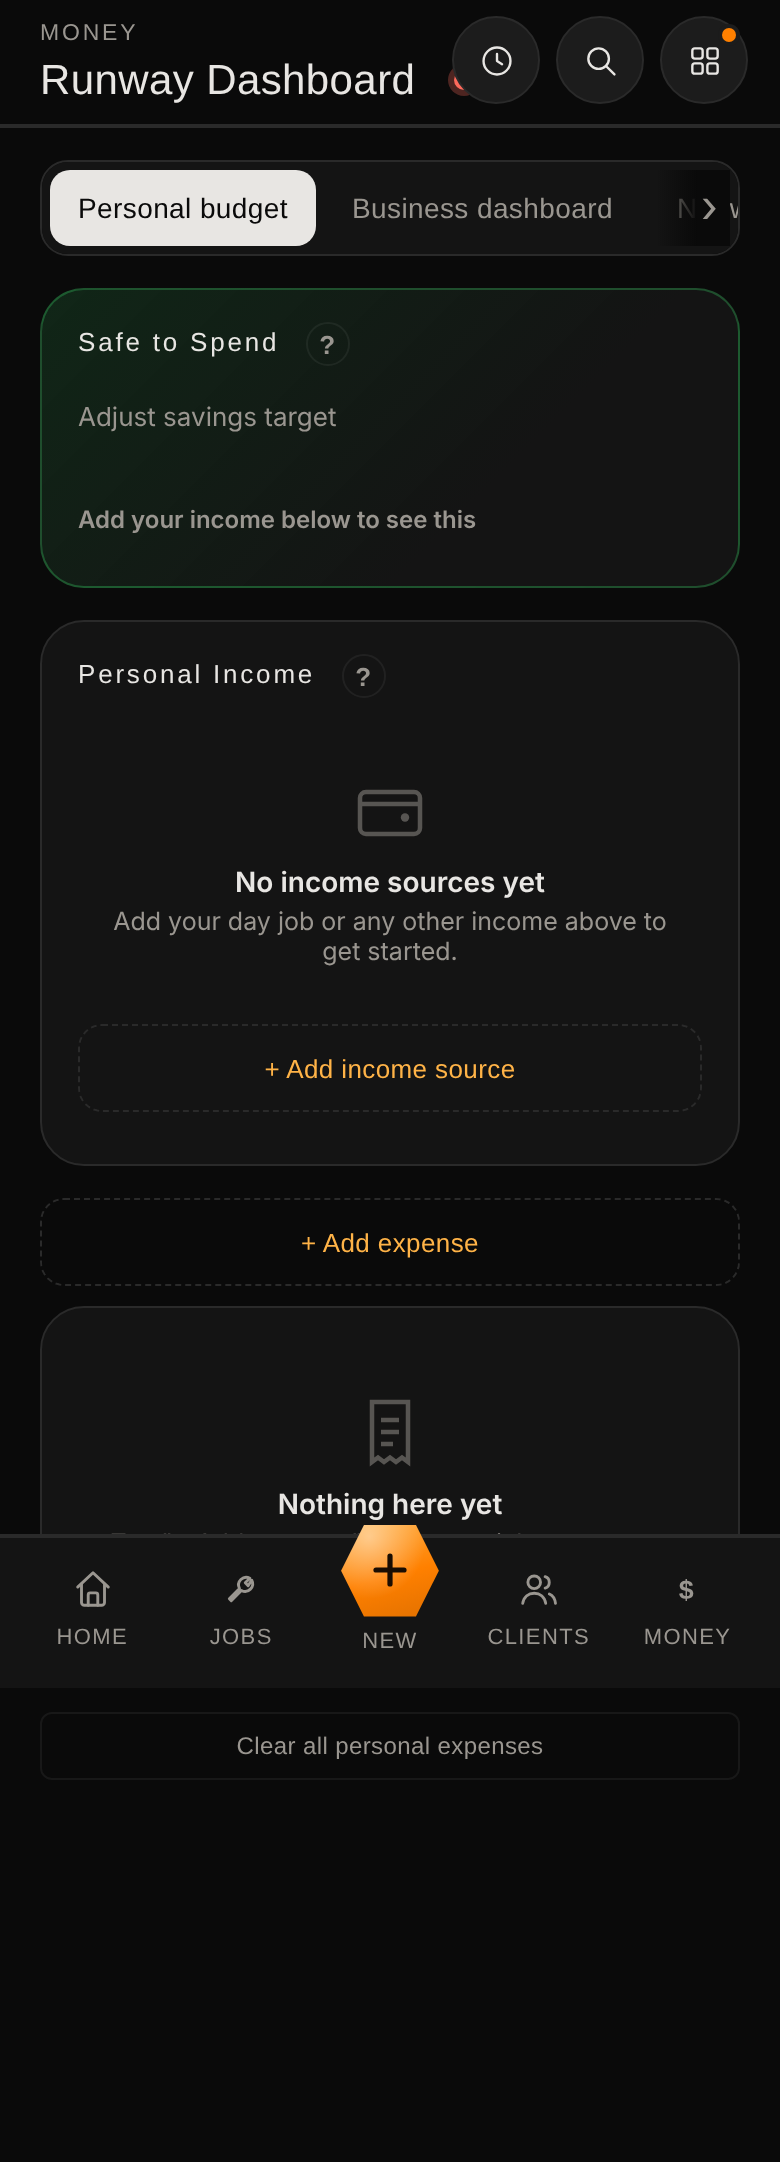
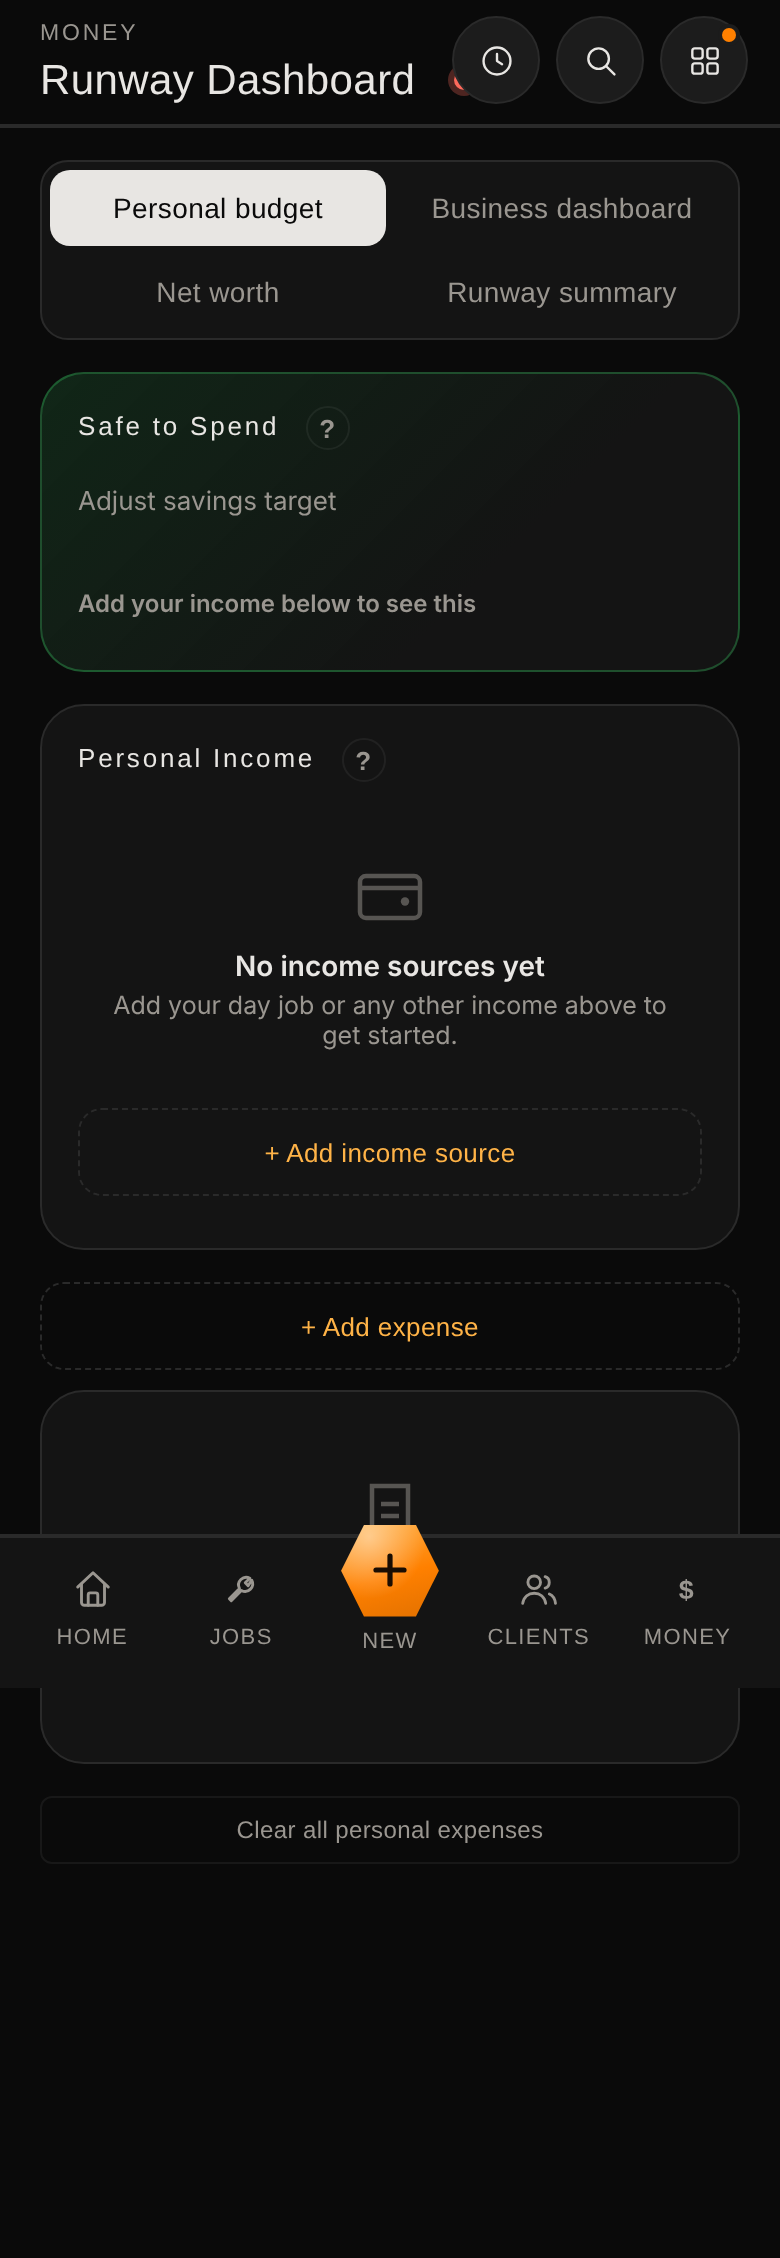
P4 runway: drop stray Runway label/bar, two-by-two tabs on a phone
Claude-Session: https://claude.ai/code/session_01AP35MqZmpT4sv7XDBYNG8n

diff --git a/tools/runway-dashboard.html b/tools/runway-dashboard.html
@@ -1538,23 +1538,16 @@ text-transform:uppercase;letter-spacing:1px;padding:14px 28px;border-radius:8px;
     body.th-tool-page .th-hdr-actions.is-floating { top: 8px; }
   }
   /* Tabs and action buttons: sentence case (Phase 2 item 7). The four tabs
-     can't share 390px, so they keep scrolling with Finance's "more" hint
-     (Phase 3 fix 7). */
+     can't share a row at 390px, so on a phone they sit two by two (no
+     sideways scrolling, nothing clipped). */
   body.th-tool-page .rw-tab-btn, body.th-tool-page button.action-btn, body.th-tool-page button.ghost-btn { text-transform: none; letter-spacing: .2px; }
   body.th-tool-page .rw-tab-btn { font-size: 14px; }
   body.th-tool-page :is(#openAddIncomeBtn, #openAddExpenseBtn, #openAddDebtBtn) { text-transform: none; letter-spacing: .2px; }
   @media (max-width: 600px) {
-    body.th-tool-page .tabs::after {
-      content: '\203A'; position: sticky; right: 0; z-index: 1; flex: 0 0 36px; align-self: stretch;
-      display: flex; align-items: center; justify-content: flex-end; padding-right: 6px; box-sizing: border-box;
-      font-family: var(--font-app); font-size: 22px; line-height: 1; color: var(--text-dim);
-      background: linear-gradient(to right, transparent, var(--bg) 55%); pointer-events: none;
-    }
-    @supports (animation-timeline: scroll()) {
-      body.th-tool-page .tabs::after { animation: th-fin-tabs-hint linear both; animation-timeline: scroll(nearest inline); }
-    }
+    body.th-tool-page .tabs { display: grid; grid-template-columns: 1fr 1fr; width: auto; max-width: none; margin-right: 20px; overflow: visible; }
+    body.th-tool-page .rw-tab-btn { white-space: normal; text-align: center; padding: 10px 8px; }
+    body.th-tool-page .tabs::after { display: none; }
   }
-  @keyframes th-fin-tabs-hint { 0%, 88% { opacity: 1; } 100% { opacity: 0; } }
   /* One primary: flat, no lip, weight 400 (PR #544). */
   body.th-tool-page .primary-btn, body.th-tool-page button.action-btn { box-shadow: none; font-weight: 400; }
   body.th-tool-page .primary-btn:active, body.th-tool-page button.action-btn:active { box-shadow: none; transform: scale(.98); }
@@ -3389,8 +3382,8 @@ function renderRunwayHero(min){
       center: '<b>' + Math.round(goalPct * 100) + '%</b><span>of 6 months</span>',
       label: monthsCovered === null ? 'Runway: add your bills to see this' : shown + ' months covered, of a 6-month goal',
     }) +
-    '<div class="rw-hero-copy"><span class="rw-kicker">Runway</span>' +
-    '<span class="rw-hero-amt">' + shown + '</span>' +
+    '<div class="rw-hero-copy">' +
+    (monthsCovered === null ? '' : '<span class="rw-hero-amt">' + shown + '</span>') +
     '<span class="rw-hero-sub">' + (monthsCovered === null ? 'Add your bills on the Personal Budget tab to see this in months.' : 'months of bills your savings cover') + '</span>' +
     '<span class="rw-reserve"><span>Goal 6 months &middot; ' + fmt(min * 6) + '</span><span>' + fmt(efBalance) + ' in reserve</span></span></div>';
   if(typeof thAnimateRings === 'function') thAnimateRings(host);

diff --git a/service-worker.js b/service-worker.js
@@ -713,7 +713,7 @@
 // specificity) when there's nothing scheduled, and unhides it the
 // moment a real job exists again. workspace.html is precached. Same
 // reasoning as every prior bump in this file's history.
-const CACHE_NAME = 'th-workspace-v439'; // precache-fingerprint:b7fb0a38b969
+const CACHE_NAME = 'th-workspace-v440'; // precache-fingerprint:e26edc7ea1a2
 const PRECACHE_URLS = [
   '/tools/workspace.html', '/tools/job-tracker.html', '/tools/invoice-generator.html', '/tools/contract-generator.html',
   '/tools/route-planner.html', '/tools/review-request.html', '/tools/login.html',
